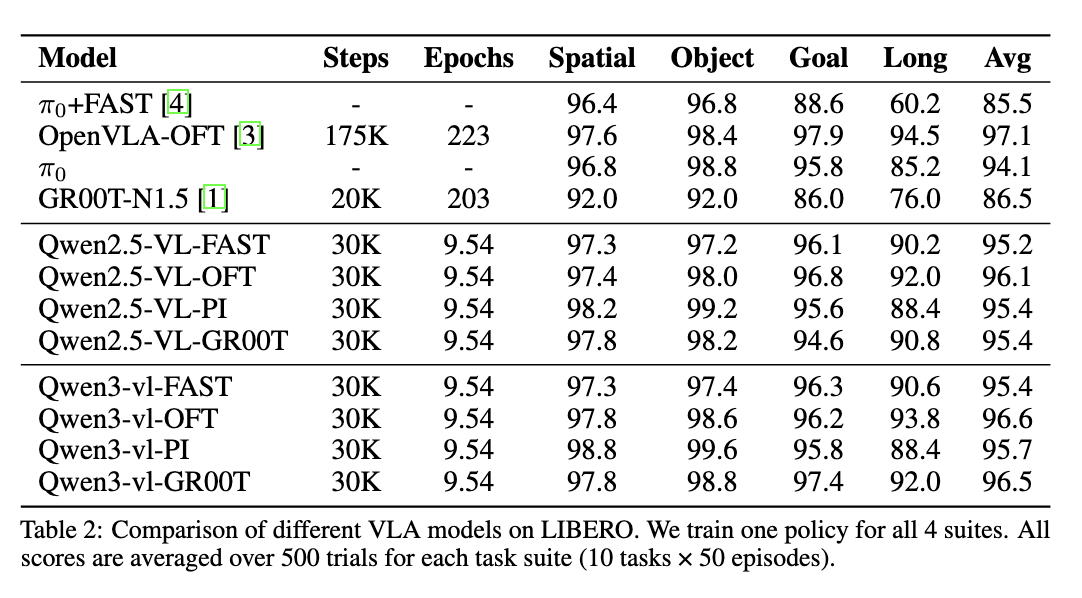
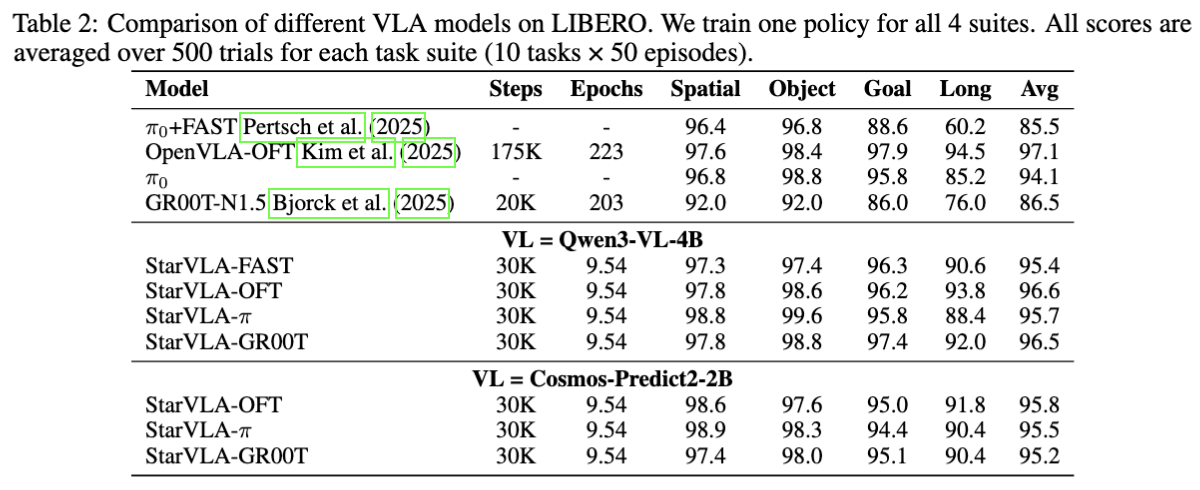
[chore] fix Add non-blocking eval observation contract checks (#417)
* Add non-blocking eval observation contract checks

* chore: refresh benchmark asset images

Changed region(s): [[0.0, 0.0, 1.0, 0.9796]]

diff --git a/deployment/model_server/tools/websocket_policy_client.py b/deployment/model_server/tools/websocket_policy_client.py
@@ -5,7 +5,7 @@
 import logging
 import os
 import time
-from typing import Dict, Optional, Tuple
+from typing import Any, Dict, List, Optional, Tuple
 
 import websockets.sync.client
 from typing_extensions import override
@@ -35,8 +35,34 @@ _CONSISTENCY_REMINDER = (
     "    - horizon  : action chunk size / action horizon\n"
     "  A mismatch on ANY of these silently lowers the success rate.\n"
     "  Cross-check the values below against your training config.\n"
+    "  The client will NOT infer or reorder camera views for you.\n"
     "============================================================"
 )
+
+
+def _as_image_sequence(value: Any) -> Optional[List[Any]]:
+    if value is None:
+        return None
+    if isinstance(value, (list, tuple)):
+        return list(value)
+    return [value]
+
+
+def _image_hw(image: Any) -> Optional[Tuple[int, int]]:
+    shape = getattr(image, "shape", None)
+    if shape is not None and len(shape) >= 2:
+        return int(shape[0]), int(shape[1])
+    size = getattr(image, "size", None)
+    if isinstance(size, tuple) and len(size) >= 2:
+        return int(size[1]), int(size[0])
+    return None
+
+
+def _expected_image_hw(metadata: Dict) -> Optional[Tuple[int, int]]:
+    size = metadata.get("training_obs_image_size")
+    if isinstance(size, (list, tuple)) and len(size) == 2:
+        return int(size[0]), int(size[1])
+    return None
 
 
 class WebsocketClientPolicy:
@@ -53,6 +79,8 @@ class WebsocketClientPolicy:
         self._packer = msgpack_numpy.Packer()
         self._api_key = api_key
         self._ws, self._server_metadata = self._wait_for_server()
+        self._did_log_eval_observation_contract = False
+        self._did_warn_eval_observation_mismatch = False
 
         # Remind the user to keep the eval-time observation pipeline aligned with
         # training, and echo the server metadata so the values can be verified.
@@ -98,9 +126,68 @@ class WebsocketClientPolicy:
 
     @override
     def predict_action(self, query_info: Dict) -> Dict:
+        self._check_eval_observation_contract(query_info)
         data = self._packer.pack(query_info)
         self._ws.send(data)
         response = self._ws.recv()
         if isinstance(response, str):
             raise RuntimeError(f"Error in inference server:\n{response}")
         return msgpack_numpy.unpackb(response)
+
+    def _check_eval_observation_contract(self, query_info: Dict) -> None:
+        examples = query_info.get("examples")
+        if not isinstance(examples, list) or not examples:
+            return
+
+        expected_hw = _expected_image_hw(self._server_metadata)
+        image_counts: List[int] = []
+        image_shapes: List[List[Optional[Tuple[int, int]]]] = []
+
+        for idx, example in enumerate(examples):
+            if not isinstance(example, dict):
+                continue
+            images = _as_image_sequence(example.get("image"))
+            if images is None:
+                logging.warning(
+                    "[TRAIN/TEST CONSISTENCY CHECK] example %d has no `image` key. "
+                    "Verify this is intended for the checkpoint metadata=%s",
+                    idx,
+                    self._server_metadata,
+                )
+                continue
+            shapes = [_image_hw(img) for img in images]
+            image_counts.append(len(images))
+            image_shapes.append(shapes)
+
+            if expected_hw is not None:
+                for image_idx, hw in enumerate(shapes):
+                    if hw is not None and hw != expected_hw:
+                        self._warn_eval_observation_mismatch_once(
+                            "[TRAIN/TEST CONSISTENCY CHECK] eval image size mismatch: "
+                            f"example={idx}, image_index={image_idx}, got={hw}, "
+                            f"training_obs_image_size={expected_hw}, metadata={self._server_metadata}. "
+                            "Resize/crop explicitly in the benchmark interface before calling predict_action."
+                        )
+
+        if image_counts and len(set(image_counts)) > 1:
+            self._warn_eval_observation_mismatch_once(
+                "[TRAIN/TEST CONSISTENCY CHECK] inconsistent image counts across eval batch: "
+                f"image_counts={image_counts}. Each example should use the same explicit camera contract."
+            )
+
+        if not self._did_log_eval_observation_contract and image_counts:
+            self._did_log_eval_observation_contract = True
+            logging.info(
+                "[TRAIN/TEST CONSISTENCY CHECK] eval request image_count=%s image_shapes=%s "
+                "server_metadata=%s. The benchmark interface is responsible for camera order; "
+                "verify this order manually against the checkpoint training setup.",
+                image_counts[0],
+                image_shapes[0] if image_shapes else None,
+                self._server_metadata,
+            )
+
+    def _warn_eval_observation_mismatch_once(self, message: str) -> None:
+        if self._did_warn_eval_observation_mismatch:
+            return
+        self._did_warn_eval_observation_mismatch = True
+        logging.warning(message)

diff --git a/deployment/model_server/policy_wrapper.py b/deployment/model_server/policy_wrapper.py
@@ -33,6 +33,23 @@ from starVLA.model.framework.share_tools import read_mode_config
 from deployment.model_server.policy_norm_processor import PolicyNormProcessor
 
 
+def _training_obs_image_size(model_cfg: Dict[str, Any]) -> Optional[List[int]]:
+    """Return training image size metadata when it is explicitly configured.
+
+    This is only a consistency check for eval clients. It is not used to infer
+    camera order or to rewrite eval observations.
+    """
+    vla_data_cfg = model_cfg.get("datasets", {}).get("vla_data", {})
+    size = vla_data_cfg.get("obs_image_size") or vla_data_cfg.get("image_size")
+    if size is None and "default_image_resolution" in vla_data_cfg:
+        default_resolution = vla_data_cfg["default_image_resolution"]
+        if isinstance(default_resolution, (list, tuple)) and len(default_resolution) >= 2:
+            size = default_resolution[-2:]
+    if not isinstance(size, (list, tuple)) or len(size) != 2:
+        return None
+    return [int(size[0]), int(size[1])]
+
+
 class PolicyServerWrapper:
     """Wraps a `baseframework` for use as a websocket-server policy."""
 
@@ -115,6 +132,12 @@ class PolicyServerWrapper:
             "action_chunk_size": self._action_chunk_size,
             "available_unnorm_keys": self._available_unnorm_keys,
             "default_unnorm_key": self._default_unnorm_key,
+            "training_data_mix": self._model_cfg.get("datasets", {}).get("vla_data", {}).get("data_mix"),
+            "training_obs_image_size": _training_obs_image_size(self._model_cfg),
+            "eval_image_contract": (
+                "Eval clients must explicitly choose image count and order. "
+                "The server does not infer or reorder camera views from training config."
+            ),
         }
         # Enrich with per-embodiment keys when a default processor already exists.
         if self._default_unnorm_key is not None:
